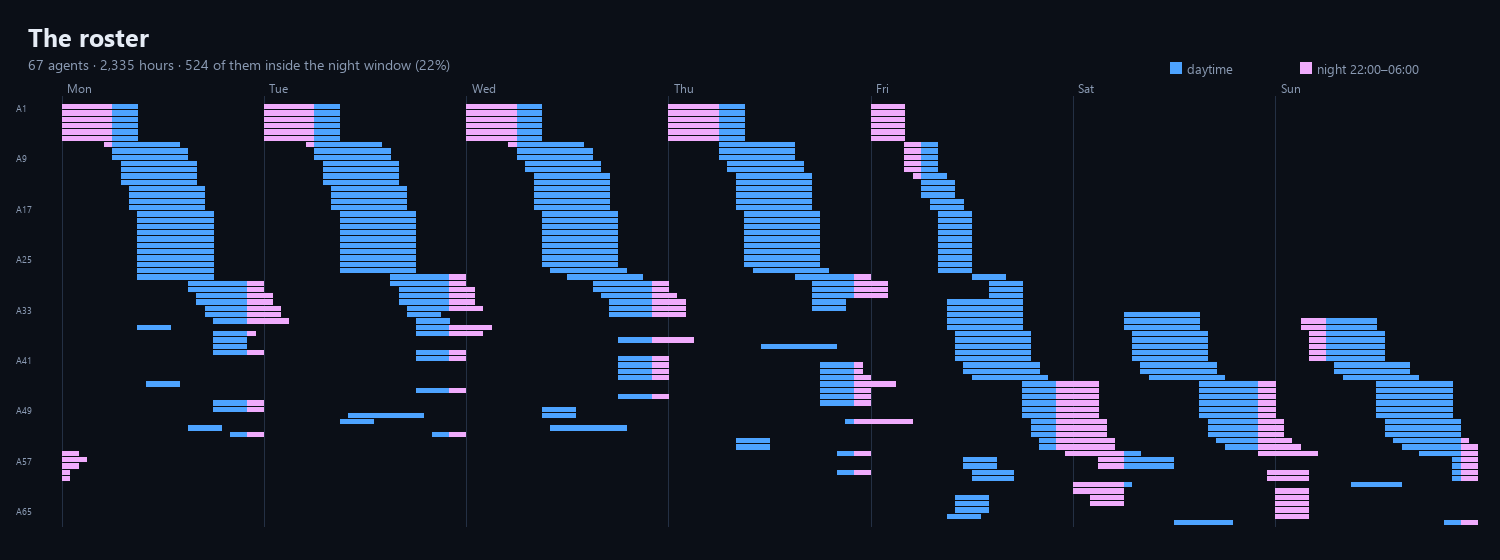
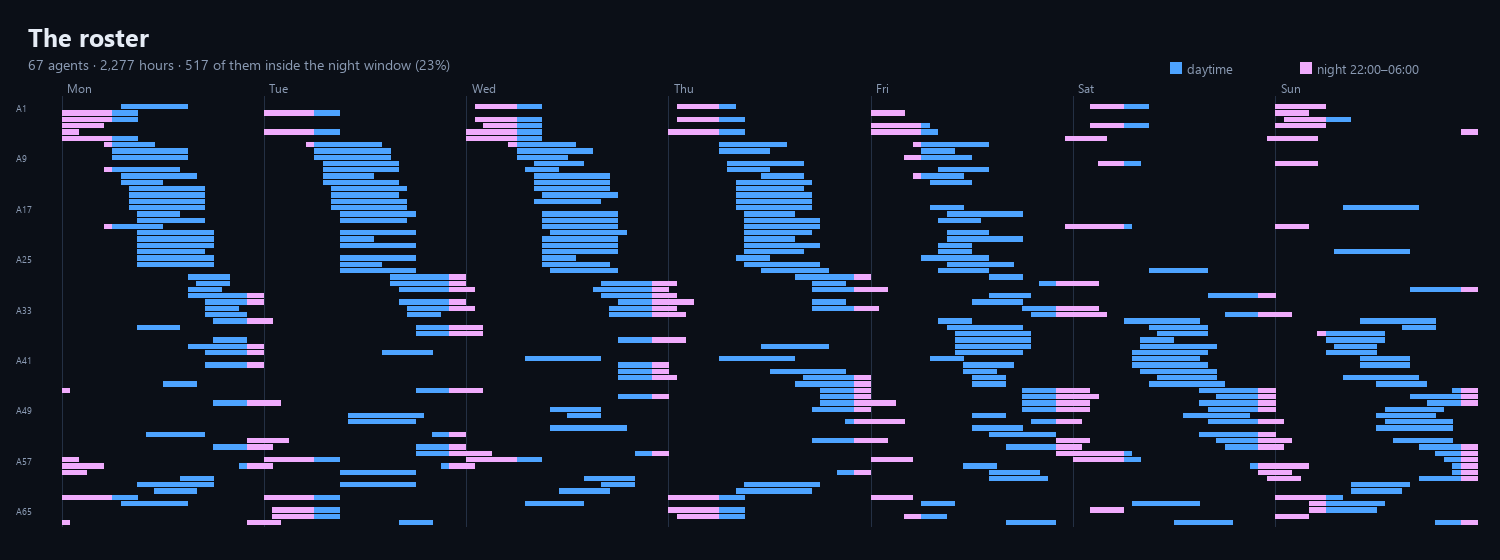
Redraw the roster picture from the roster the code now produces
Both published copies of the picture — docs/media/roster.png and the card on
the personal site — were drawn when the solver was leaving 27 hours uncovered.
Four rebuilds later the week it shows does not exist: 2,335 hours became 2,277
and coverage 98.81% became 100%. The caption's night share moves with it,
22% to 23%; the block-by-block figure it contrasts against still rounds to 45%.

diff --git a/README.md b/README.md
@@ -240,7 +240,7 @@ claim about its own output.
 *One row per agent, 168 columns, Monday 00:00 on the left. Blue is daytime and magenta is
 the part of a block that falls inside 22:00–06:00 — coloured hour by hour rather than
 block by block, which matters: colouring whole blocks put 45% of the week in magenta on a
-roster that works 22% of its hours at night.*
+roster that works 23% of its hours at night.*
 
 Weekly rostering is the nurse-rostering problem: for each of *n* agents and each
 of 7 days, choose one shift out of 145 such that hourly coverage meets demand and
